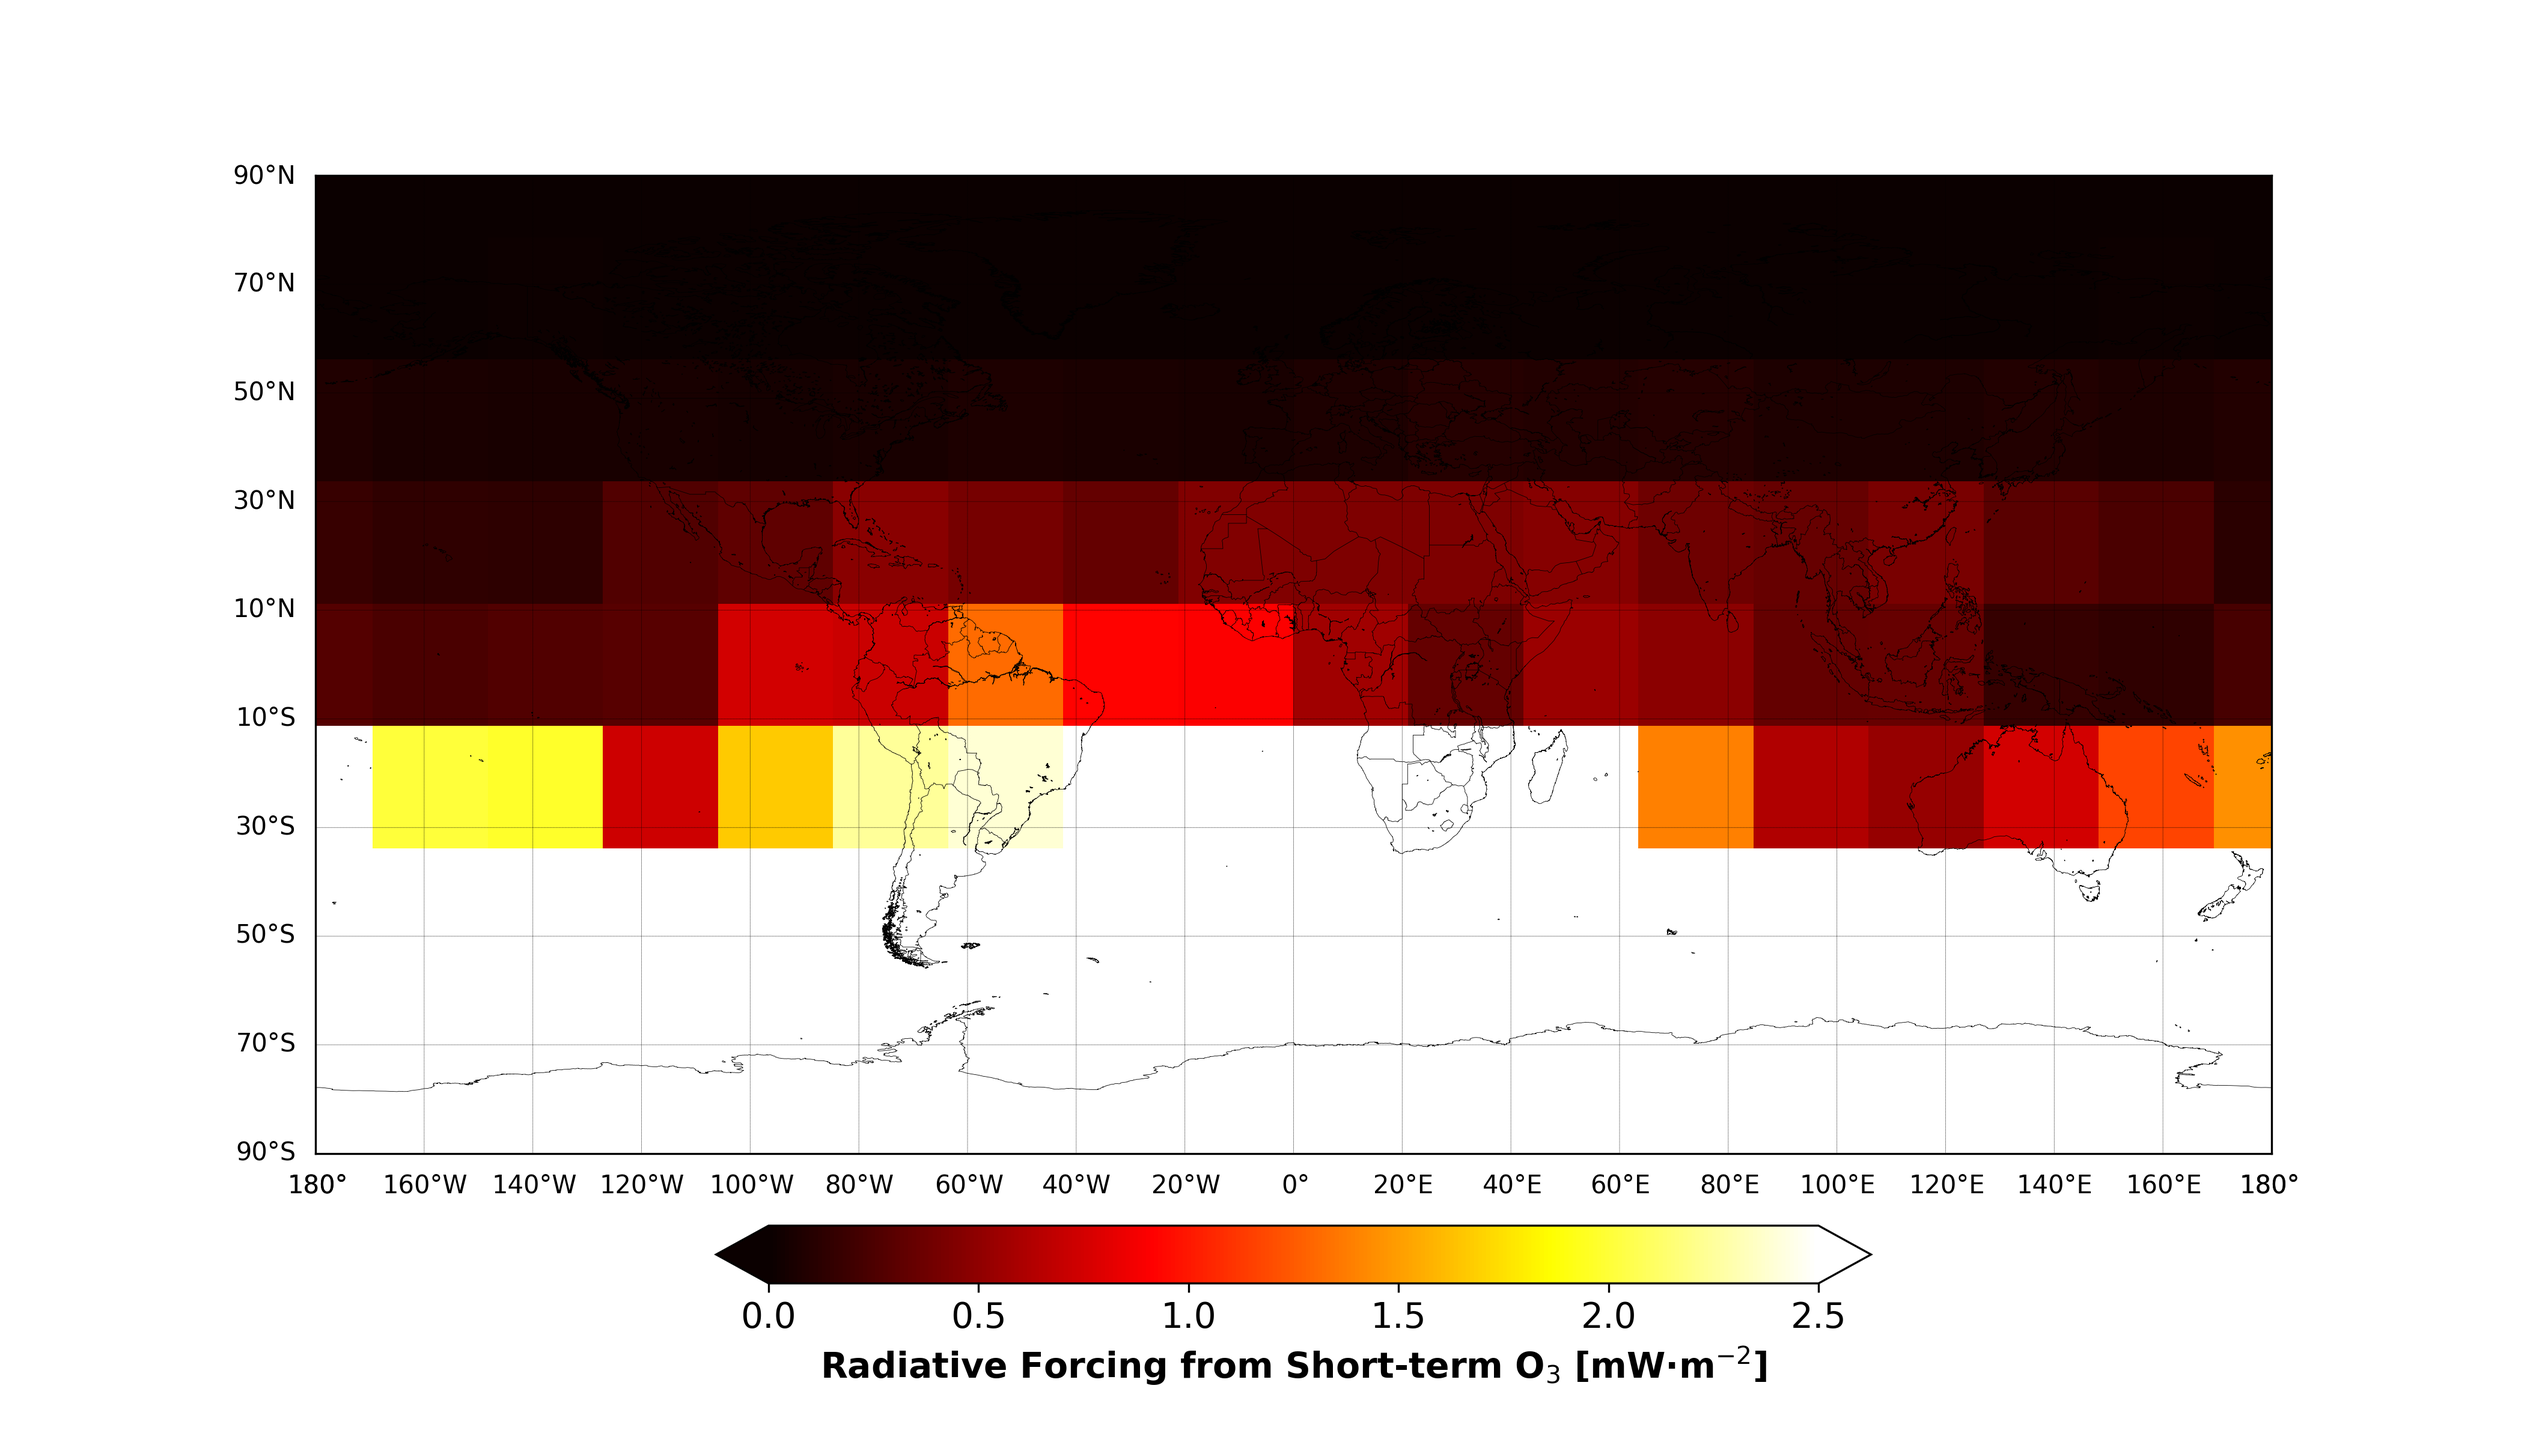
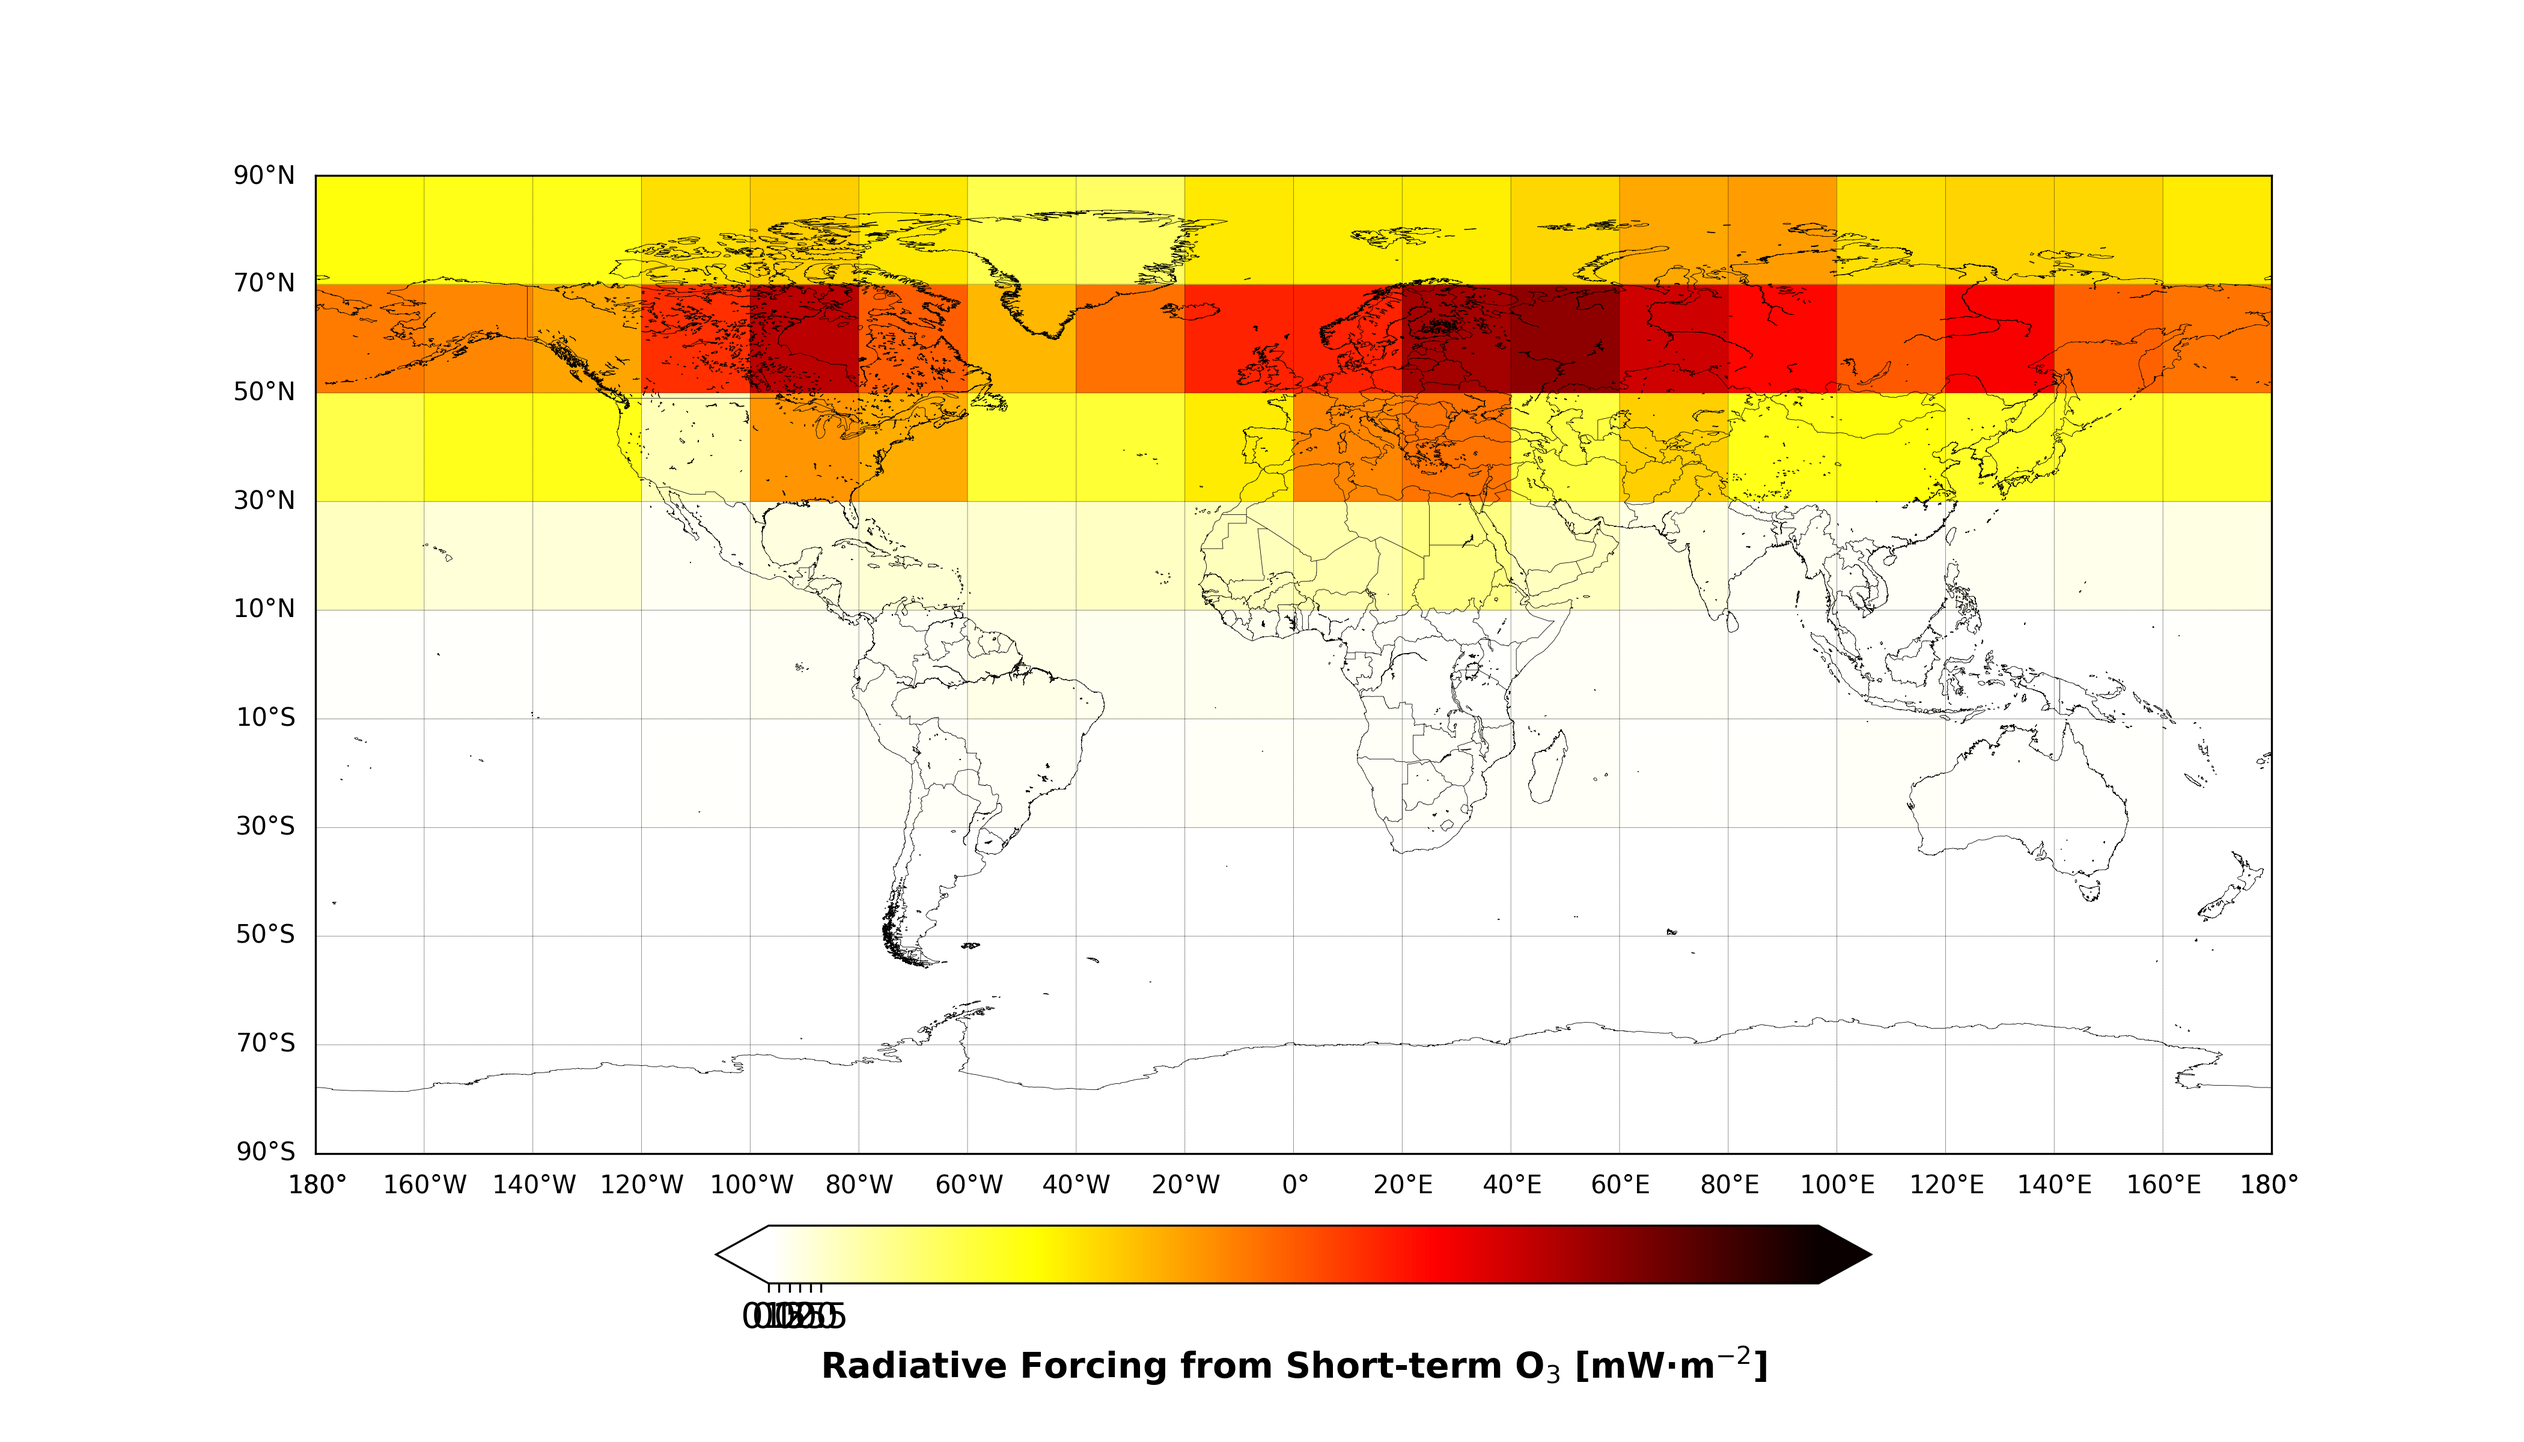
fgg

diff --git a/Group1 -Seas_Alt_Transport/Group4_version_28Graphs(mo).py b/Group1 -Seas_Alt_Transport/Group4_version_28Graphs(mo).py
@@ -230,47 +230,47 @@ print(TrendMap(0))
 if attila_switch == True:
 
     #Set up axis object for plotting the map
-    fig, ax = plt.subplots()
+  #  fig, ax = plt.subplots()
     
     #Adjust dimensions of map plot
-    fig.set_figheight(8)
-    fig.set_figwidth(14)
+#    fig.set_figheight(8)
+#    fig.set_figwidth(14)
     
-    parcel = 25 #Parcel ID, 0 means first.
+ #   parcel = 25 #Parcel ID, 0 means first.
     
 
-    setOFcolor=np.array(range(len(ppress[:,parcel])))
-    print(setOFcolor)
+#    setOFcolor=np.array(range(len(ppress[:,parcel])))
+#    print(setOFcolor)
     #Scatter plot settings
 
     #ADDED
-    plt.scatter(time, ppress[:,parcel], s=30, marker='o', c=ppress[:,parcel]) #color='green')
+ #   plt.scatter(time, ppress[:,parcel], s=30, marker='o', c=ppress[:,parcel]) #color='green')
    
   
    #BEFORE ADDED plt.scatter(time, ppress[:,parcel], s=30, marker='o', color='green')
     #END ADDED
 
     #Defining range of axes
-    plt.xticks(np.arange(0,110,10), np.arange(0,110,10), fontsize=20)
-    plt.yticks(np.arange(0,1200,200), np.arange(0,1200,200), fontsize=20)
+#    plt.xticks(np.arange(0,110,10), np.arange(0,110,10), fontsize=20)
+#    plt.yticks(np.arange(0,1200,200), np.arange(0,1200,200), fontsize=20)
     
     #Inversion of vertical axis
-    plt.gca().invert_yaxis() #The higher the pressure, the closer to the surface
+ #   plt.gca().invert_yaxis() #The higher the pressure, the closer to the surface
     
     #Labeling of axes
-    plt.xlabel('Time elapsed since emission \n [Days]', fontsize=22, weight='bold')
-    plt.ylabel('Air parcel pressure altitude \n [hPa]', fontsize=22, weight='bold')
+#    plt.xlabel('Time elapsed since emission \n [Days]', fontsize=22, weight='bold')
+#    plt.ylabel('Air parcel pressure altitude \n [hPa]', fontsize=22, weight='bold')
     
     #Add plot title
-    plt.title('Air Parcel ID='+str(parcel), fontsize=26, weight='bold')
+#    plt.title('Air Parcel ID='+str(parcel), fontsize=26, weight='bold')
     
     #To save the plot, give it a name, format and dpi represents the resolution.
     #Typically, for publications, dpi=300.
-    plt.tight_layout() #Ensure all parts of the plot will show after saving
-    plt.savefig("air_parcel_ID"+str(parcel)+".png",format="png",dpi=300)
-    
-    plt.show()
-    plt.close() 
+#    plt.tight_layout() #Ensure all parts of the plot will show after saving
+#    plt.savefig("air_parcel_ID"+str(parcel)+".png",format="png",dpi=300)
+#    
+#    plt.show()
+#    plt.close() 
 
 # =============================================================================
 # PLOT TYPE 2 - HORIZONTAL EVOLUTION OF LAGRANGIAN AIR PARCELS (ON MAP)
@@ -380,7 +380,82 @@ if attila_switch == True:
 
 
 
+# =============================================================================
+# PLOT TYPE 5 - Net radiative fluxes from short-term ozone increase (Single EP)
+# =============================================================================
 
+#Requires lat,lon from ATTILA data files and fluxes
+if attila_switch == True and rad_fluxes_switch == True:
+    
+    #Set up axis object for plotting the map
+    fig, ax = plt.subplots() #Subplots are useful for drawing multiple plots together
+    
+    #Adjust dimensions of map plot
+    fig.set_figheight(8)
+    fig.set_figwidth(14)
+    
+    #Define map projection and settings
+    #For more info: https://matplotlib.org/basemap/users/cyl.html
+    mp = Basemap(projection = 'cyl', #equidistant cylindrical projection
+                         llcrnrlon = -180,
+                         llcrnrlat = -90,
+                         urcrnrlon = 180,
+                         urcrnrlat = 90,
+                         resolution = 'i', ax=ax) #h=high, f=full, i=intermediate, c=crude
+    
+    #Shift the fluxes from [0,360] to [-180,180]
+    net_flx_EP_shft, lons_shft = shiftgrid(180.,global_net_flx[0], 
+                                           lons_0to36,start=False)
+    
+    #Format the lat and lon arrays for map graphing, 
+    #makes lat array a lat x lon array and same for lon array
+    lon, lat = np.meshgrid(lons_shft, lats)
+    x, y = mp(lon, lat)
+    
+    #Choose the settings for the coastlines, countries, meridians...
+    mp.drawcoastlines(linewidth=0.2)
+    mp.drawcountries(linewidth=0.2)
+    
+    meridians = mp.drawmeridians(np.arange(-180,200,20), 
+                         labels=[False,False,False,True], 
+                         linewidth=0.2, fontsize=10) #Draw lon lines every 20º
+    
+    mp.drawparallels(np.arange(-90,110,20), 
+                         labels=[True,False,False,True], 
+                         linewidth=0.2, fontsize=10) #Draw lat lines every 20º
+    
+    #Set up custom colorbar, colors may be chosen with the help from colorbrewer2.org
+    colors = ["#ffffff", "#fec44f", "#d95f0e", "#e34a33", "#b30000"]
+    cmap= matplotlib.colors.ListedColormap(colors)
+    bounds = [0, 0.5, 1, 1.5, 2, 2.5]
+    
+    cmap.set_under("w")
+    cmap.set_over("red")
+    
+    norm= matplotlib.colors.Normalize(vmin=0,vmax=2.5)
+    
+    #Time-average for the first emission point
+    time_avg_flux = np.mean(net_flx_EP_shft, axis=0)
+    
+    #Plot the flux on the map
+    sc2 = mp.pcolor(x, y, time_avg_flux*1000,
+                    cmap=cmap, norm=norm, shading='auto')
+    
+    #Define colorbar features
+    cb = fig.colorbar(sc2, ticks=bounds, extend='both', 
+                      orientation='horizontal',fraction=0.052, 
+                      pad=0.065)
+    
+    #Adjust colorbar tickmark size
+    cb.ax.tick_params(labelsize=14)
+    
+    #Label the colorbar
+    cb.set_label(label="Radiative Forcing from Short-term O$_3$ [mW·m$^{-2}$]",size=14,weight='bold')
+    
+    #Save and close the map plot
+    plt.savefig("rad_fluxes_map_example.png",format="png",dpi=300)
+    plt.show()
+    plt.close()
 
 
     
@@ -414,10 +489,11 @@ if attila_switch == True and rad_fluxes_switch == True:
     #Format the lat and lon arrays for map graphing, 
     #makes lat array a lat x lon array and same for lon array
     lon, lat = np.meshgrid(lons_shft, lats)
-    x = np.linspace(0,360,18)
-    y = np.linspace(0,180,9)
+    x = np.linspace(-180,180,19)
+    print(x)
+    y = np.linspace(-90,90,10)
     #mp(lon, lat) #changed!!!!!!
-    print(f"x isss{x.shape}")
+  ####  print(f"x isss{x.shape}")
     #print(f"shape of x and y{print(x.shape)}")
     #print(f"this is x{len(x)}")
     #print(f"this is x{y}")
@@ -445,10 +521,10 @@ if attila_switch == True and rad_fluxes_switch == True:
     
     #Time-average for the first emission point
     time_avg_flux = np.mean(net_flx_EP_shft, axis=0)
-
+  #####  print(time_avg_flux)
 ###########################
     #changed!!!!!!
-    print(f"this is shape of {time_avg_flux.shape}")
+  #####  print(f"this is shape of {time_avg_flux.shape}")
     new_time_avg_flux=np.zeros((9,18))#changed!!!!!!
    #64,128 
    #to
@@ -457,21 +533,44 @@ if attila_switch == True and rad_fluxes_switch == True:
         for j in range(9):
             # for i1 in range(64):
                # for j1 in range(128):
-          new_time_avg_flux[j,i]= time_avg_flux[j*7:(j+1)*7,i*7:(i+1)*7].sum()
-    print(f"this is the shape of the one generate:{new_time_avg_flux.shape}")
-    print(f"this is the shape of x:{x.shape,y.shape}")
+          time_avg_flux_copy=time_avg_flux.copy()
+          new_time_avg_flux[j,i]= sum(map(sum, time_avg_flux_copy[j*7:(j+1)*7,i*7:(i+1)*7]))#time_avg_flux[j*7:(j+1)*7,i*7:(i+1)*7].sum()
+ #####   print(f"this is the shape of the one generate:{new_time_avg_flux.shape}")
+ #####   print(f"this is the shape of x:{x.shape,y.shape}")
     #print(f"this is the length of x:{len(x)}")
     #time_avg_flux=new_time_avg_flux#changed!!!!!!
 #changed!!!!!!
+    new_time_avg_flux_flipped=np.flip(new_time_avg_flux,0)
+
+
+ #####   print(new_time_avg_flux_flipped)
+
+    #def find_largest_element(arr):
+     #   max_element = float('-inf')  # Initialize with the smallest possible value
+#
+ ##       # Iterate over each element in the array
+   #     for sublist in arr:
+    #        for element in sublist:
+     #           if element > max_element:
+      #              max_element = element
+
+       # return max_element
+
+    #largest_element = find_largest_element(array)
+    #print("The largest element is:", largest_element)
+
+    #print(f"this is the max{np.maximum(new_time_avg_flux)}")
 ###########################
 
 
 
    # print(f"shape of time_avg_flux{print(time_avg_flux.shape)}")
     #Plot the flux on the map
-    sc2 = mp.pcolor(x, y, new_time_avg_flux*1000,
-                    cmap=cmap, norm=norm, shading='auto')
-    
+
+    norm= matplotlib.colors.Normalize(vmin=0,vmax=50)
+    sc2 = mp.pcolor(x, y, new_time_avg_flux_flipped*1000,
+                    cmap='hot_r',shading='auto',norm=norm)
+    # cmap='hot_r',shading='auto',vmin=vmin, vmax=vmax
     #Define colorbar features
     cb = fig.colorbar(sc2, ticks=bounds, extend='both', 
                       orientation='horizontal',fraction=0.052, 
